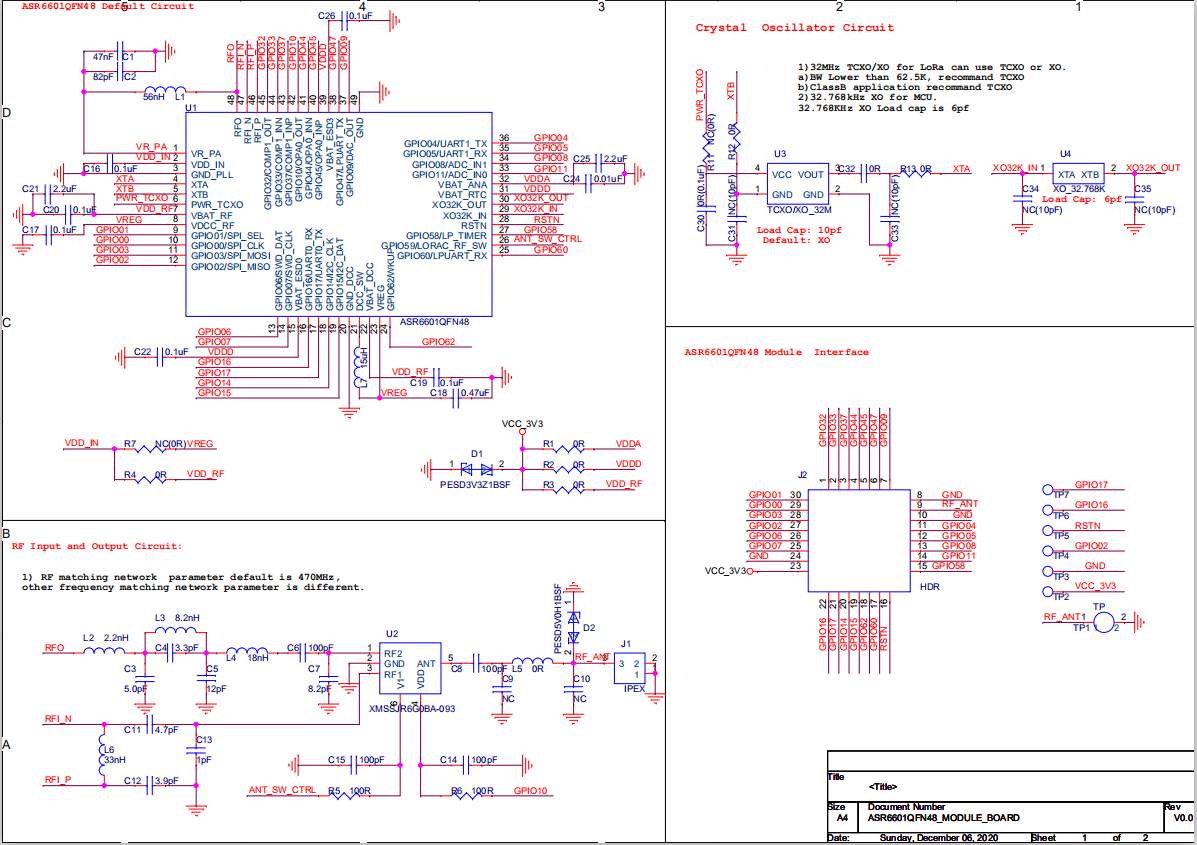
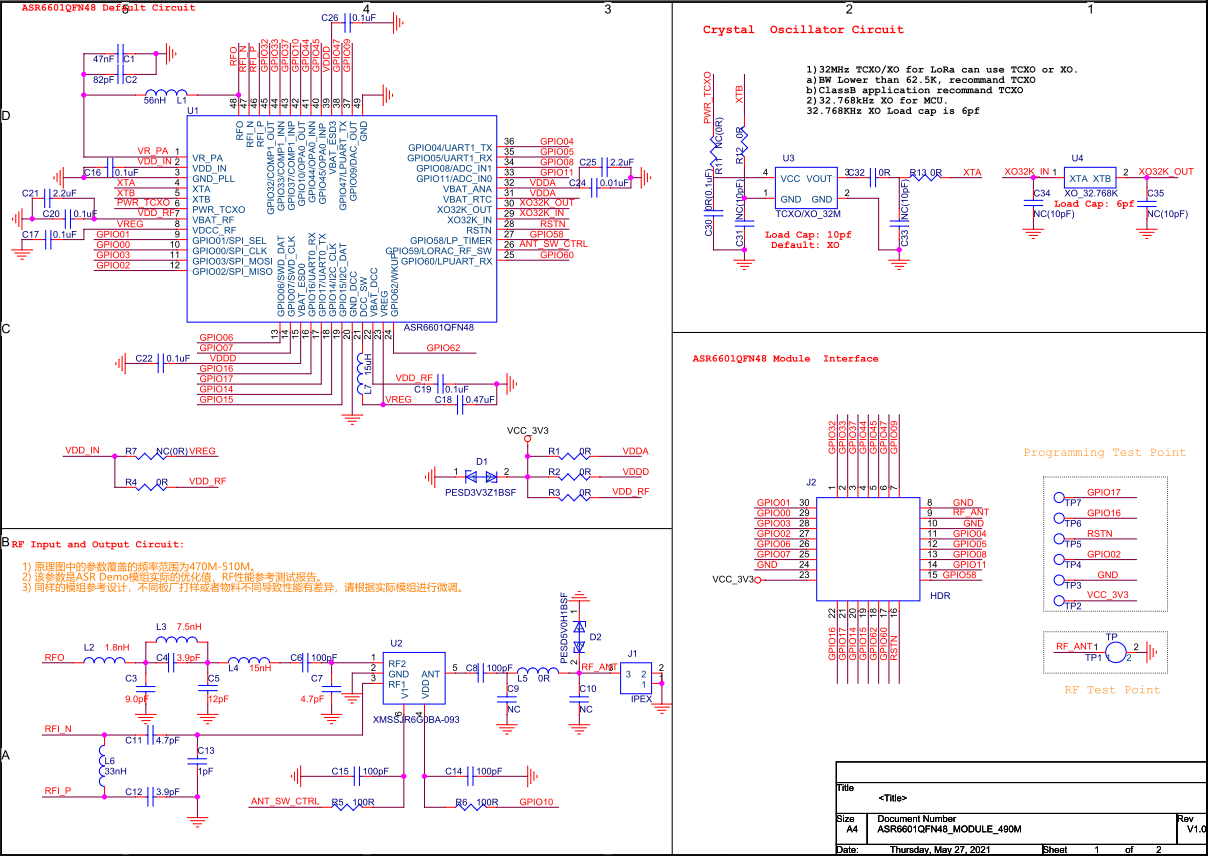
change some descriptions and figures.

diff --git a/source/hardware_design.rst b/source/hardware_design.rst
@@ -53,17 +53,19 @@ Homepage: http://www.asrmicro.com/asrweb/
 +----------+-------------+---------------------------------------------------------------------------------------------------------------------------------------------------------------------------------------------------------------------------------------+
 | 2020.11  | V1.0.1      | Updated some pictures.                                                                                                                                                                                                                |
 +----------+-------------+---------------------------------------------------------------------------------------------------------------------------------------------------------------------------------------------------------------------------------------+
-| 2020.12  | V1.0.2      | Updated the descriptions about ASR6601 module interfaces in Figure 2-2 and Figure 2-3. Updated the I2C_CLK and I2C_DAT marks in the ASR6601 module reference design in Figure 2-2 and Figure 2-3. Updated Section 2.5 Pin Assignment. |
+| 2020.12  | V1.0.2      | Updated the descriptions about ASR6601 module interfaces in the figures in Section 2.3.  Corrected the I2C_CLK and I2C_DAT marks in the figures in Section 2.3.  Updated Section 2.5 Pin Assignment.                                  |
 +----------+-------------+---------------------------------------------------------------------------------------------------------------------------------------------------------------------------------------------------------------------------------------+
-| 2021.05  | V1.1.0      | Updated the recommended crystal oscillators in Table 3-1.                                                                                                                                                                             |
+| 2021.05  | V1.1.0      | Updated Chapter 1: Overview.   Updated the recommended crystal oscillators in Table 3-1.                                                                                                                                              |
++----------+-------------+---------------------------------------------------------------------------------------------------------------------------------------------------------------------------------------------------------------------------------------+
+| 2021.07  | V1.2.0      | Added Section 2.4.2 reset circuit and relevant notice.  Updated the descriptions about CPU.  Updated the figures in Section 2.3.1, 2.3.2 and 2.4.4.                                                                                   |
 +----------+-------------+---------------------------------------------------------------------------------------------------------------------------------------------------------------------------------------------------------------------------------------+
 
-1. Test Overview
+1. Overview
 ----------------
 
 ASR6601 is a general Sub-GHz SoC chip, with integrated Sub-1G RF transceiver and 32-bit RISC MCU. This transceiver is compatible with LoRaWAN® networks with the support for LoRa modulation for LPWAN use cases and (G)FSK modulation for legacy use cases. The MCU uses ARM STAR, with 48 MHz operation frequency, supports 3 x I2C, 1 x I2S, 4 x UART, 1 x LPUART, 1 x SWD, 3 x SPI, 1 x 12-bit SAR ADC, 1 x 12-bit DAC, etc.
 
-Continuous frequency coverage from 150 MHz to 960 MHz allows the support of all major sub-GHz ISM bands around the world. ASR6601 is capable of delivering up to +22 dBm with high-efficiency PA. High sensitivity to -148 dBm is achieved with just 4.6 mA active receive current consumption. The ultra-low deep sleep current of less than 1.6uA greatly extends the battery life. ASR6601 uses QFN48 (6x6mm) and QFN68 (8x8mm) packages. AS such, ASR6601 is suitable for ultra-distance communication, ultra-low power consumption and cost-effective LPWAN applications.
+Continuous frequency coverage from 150 MHz to 960 MHz allows the support of all major sub-GHz ISM bands around the world. The maximum transmit power of the chip is up to +22 dBm with the high-efficiency PA integrated. High sensitivity to -148 dBm is achieved with just 4.6 mA active receive current consumption. The ultra-low deep sleep current of less than 1.6 uA greatly extends the battery life. ASR6601 uses QFN48 (6x6mm) and QFN68 (8x8mm) packages. AS such, ASR6601 is suitable for ultra-distance communication, ultra-low power consumption and cost-effective LPWAN applications.
 
 This document is a guide for ASR6601 hardware design, including the schematic design, layout notes, and suggestions to critical materials selection.
 
@@ -110,7 +112,7 @@ Pay close attention to the following aspects, regarding ASR6601 module reference
 
 \1. The default of the matching network is 470 MHz in the reference circuit. If you need any other matching network, please refer to *ASR6601_Matching_V1.0*.
 
-\2. The pullup inductor L7 (15 uH) of DC-DC must be power inductor (Package size: 2016). Refer to the Chapter 3 in this article to get the details of the power inductor. We suggest you choose 0402 package for the inductor L1 (56 nH) of VR_PA, since its rated current is larger, which helps improve the transmit power of the TX.
+\2. The pullup inductor L7 (15 uH) of DC-DC must be power inductor (Package size: 2016). Refer to *Chapter 3: Material Selection* to get the details of the power inductor. We suggest you choose 0402 package for the inductor L1 (56 nH) of VR_PA, since its rated current is larger, which helps improve the transmit power of the TX.
 
 \3. The R1，R2，R3，R4 and R7 in the schematics are mainly for testing. You can change or remove them accordingly.
 
@@ -118,7 +120,7 @@ Pay close attention to the following aspects, regarding ASR6601 module reference
 
 \5. In order to enhance ESD protection, we suggest reserving D1 and D2. D2 has some influence on RF performance, D2(TVS) with small capacitance is prefered.
 
-\6. If VDD_IN is connected to VREG, the maximum transmit power is 14dBm. If VDD_IN is connected to VDD_RF, the maximum transmit power is up to 22dBm.
+\6. If VDD_IN is connected to VREG, the maximum transmit power is 14 dBm. If VDD_IN is connected to VDD_RF, the maximum transmit power is up to 22 dBm.
 
 \7. Users can contact ASR for the DSN file of ASR6601 module schematics.
 
@@ -146,7 +148,30 @@ ASR6601 DC-DC Power Supply Scheme
 
    </center>
 
-2.4.2 Crystal Oscillator
+
+2.4.2 Reset Circuit
+^^^^^^^^^^^^^^^^^^^^^^^^
+
+The power-on reset circuit and power-on sequence are integrated into ASR6601 SoC chip, and the voltage can be normally loaded on VBAT directly.
+
+.. raw:: html
+
+   <center>
+
+|image5|
+
+ASR6601 Power-on Reset Circuit and Power-on Sequence
+
+.. raw:: html
+
+   </center>
+
+**Notice:**
+ As shown in Figure 2-5, the VBAT power supply must rise to above 0.7 Vcc within 10ms before the internal Power RST circuit can be reset normally. There is a low-voltage detection module inside the chip, when VBAT is lower than 0.3 Vcc, the inside of the chip will always be in the reset state. The chip has been optimized internally. It is recommended to use 4.7K external pull-up resistors and 330 pf capacitors for the internal Power RST circuit. The reset time should be delayed as short as possible. If a large capacitor is connected externally, VBAT rises slowly, and the system may have unnecessary risks.
+
+
+
+2.4.3 Crystal Oscillator
 ^^^^^^^^^^^^^^^^^^^^^^^^
 
 ASR6601 Demo module uses two crystal oscillators:
@@ -157,7 +182,7 @@ ASR6601 Demo module uses two crystal oscillators:
 
  b. If the bandwidth is lower than 62.5 KHz, TCXO is strongly recommended.
 
- c. As ASR6601 is integrated load capacitance matrix, please use the default value.
+ c. ASR6601 integrates load capacitance matrix, please use the default value.
 
  d. Increase external load capacitance when the frequency offset is positive, otherwise, we suggest to change 32M XO.
 
@@ -173,7 +198,7 @@ ASR6601 Demo module uses two crystal oscillators:
 
    <center>
 
-|image5|
+|image6|
 
 .. raw:: html
 
@@ -181,10 +206,10 @@ ASR6601 Demo module uses two crystal oscillators:
 
 
 
-2.4.3 RF Matching
+2.4.4 RF Matching
 ^^^^^^^^^^^^^^^^^
 
-|image6|
+|image7|
 
 Pay close attention to the following aspects, regarding to ASR6601 chip RF circuit:
 
@@ -192,13 +217,13 @@ Pay close attention to the following aspects, regarding to ASR6601 chip RF circu
 
 \2. The default of the matching network is 470 MHz in the reference circuit. If you need any other matching network, please refer to the article of *ASR6601_Matching_V1.0*.
 
-\3. XMSSJR6G0BA uses single-end controlled mode. Pin6 is the DIO2 received by CTRL signal of TRSW. DIO’s controlling logics are as following. Please note that different RFSWs have different controlling logics and pins, so please refer to the responding datasheet of RFSW.
+\3. XMSSJR6G0BA uses single-end controlled mode. Pin6 is the DIO2 received by CTRL signal of TRSW. DIO’s controlling logics are as following. Please note that different RFSWs have different controlling logics and pins, which are defined in the corresponding datasheets of RFSW.
 
  a. When DIO2 is high, RF2àTX
 
  b. When DIO2 is low, RF1àRX
 
-\4. GPIO10 connects the VDD pin of TRSW. When LoRa chip works normally, GPIO is high. When LoRa chip is in sleep mode, pull down GPIO to turn off the TRSW to prevent TRSW electric leakage (XMSSJR6G0BA may have 5 uA electric leakage). If the power consumption is not sensitive, GIPO can be used in other ways by connecting VDD_RF to VDD of RFSW.
+\4. GPIO10 connects the VDD pin of TRSW. When ASR6601 works normally, GPIO is high. When ASR6601 is in sleep mode, GPIO is pulled down to turn off the TRSW to prevent TRSW electric leakage (XMSSJR6G0BA may have 5 uA electric leakage). If the power consumption is not sensitive, GIPO can be used in other ways by connecting VDD_RF to VDD of RFSW.
 
 \5. ASR suggest using XMSSJR6G0BA for RFSW. Users can use replaceable materials and adjust the parameters in RF matching network. For further details, please refer to *Chapter 3: Material Selection*.
 
@@ -211,7 +236,7 @@ Please refer to *ASR6601 Datasheet* for pin definitions.
 
    <center>
 
-|image7|
+|image8|
 
 Pin Assignment of ASR6601SE QFN68 (8x8x0.9mm)
 
@@ -223,7 +248,7 @@ Pin Assignment of ASR6601SE QFN68 (8x8x0.9mm)
 
    <center>
 
-|image8|
+|image9|
 
 Pin Assignment of ASR6601CB QFN48 (6x6x0.9mm)
 
@@ -239,23 +264,21 @@ Pin Assignment of ASR6601CB QFN48 (6x6x0.9mm)
 3.1 Crystal Oscillator
 ~~~~~~~~~~~~~~~~~~~~~~
 
-|image9|
+|image10|
 
-Please refer to *Critical Material Recommendations* for details about recommended suppliers.
 
 3.2 RF Switch
 ~~~~~~~~~~~~~
 
-|image10|
+|image11|
 
-Please refer to *Critical Material Recommendations* for details about recommended suppliers.
 
 3.3 Power Inductor
 ~~~~~~~~~~~~~~~~~~
 
 If using DC-DC supplies power to the regulator (REG PA), the power inductor is a necessity. Please refer to the requirements of the power inductor in the following table.
 
-|image11|
+|image12|
 
 Please refer to *Critical Material Recommendations* for details about recommended suppliers.
 
@@ -289,7 +312,7 @@ Pay attention to the following aspects, regarding to the PCB RF routing as shown
 
    <center>
 
-|image12|
+|image13|
 
 .. raw:: html
 
@@ -331,8 +354,9 @@ Pay attention to the following aspects, regarding to the PCB crystal routing:
 .. |image6| image:: img/6601_Hardware/图2-6.png
 .. |image7| image:: img/6601_Hardware/图2-7.png
 .. |image8| image:: img/6601_Hardware/图2-8.png
-.. |image9| image:: img/6601_Hardware/图3-1.png
-.. |image10| image:: img/6601_Hardware/图3-2.png
-.. |image11| image:: img/6601_Hardware/图3-3.png
-.. |image12| image:: img/6601_Hardware/图4-1.png
+.. |image9| image:: img/6601_Hardware/图2-9.png
+.. |image10| image:: img/6601_Hardware/图3-1.png
+.. |image11| image:: img/6601_Hardware/图3-2.png
+.. |image12| image:: img/6601_Hardware/图3-3.png
+.. |image13| image:: img/6601_Hardware/图4-1.png
 

diff --git a/source/datasheet.rst b/source/datasheet.rst
@@ -51,13 +51,15 @@ Homepage: http://www.asrmicro.com/asrweb/
 +=========+=========+==========================================================================================================+
 | 2020.09 | V1.0.0  | First Release.                                                                                           |
 +---------+---------+----------------------------------------------------------------------------------------------------------+
-| 2020.09 | V1.0.1  | Updated Figure 3-2.                                                                                      |
+| 2020.09 | V1.0.1  | Updated ASR6601CB QFN48 pin assignment.                                                                  |
 +---------+---------+----------------------------------------------------------------------------------------------------------+
 | 2020.10 | V1.0.2  | Added Section 3.3.                                                                                       |
 +---------+---------+----------------------------------------------------------------------------------------------------------+
 | 2020.12 | V1.1.0  | Updated the contents and section order of Chapter 2. Added Section 2.3, Section 3.1.3 and Section 3.2.3. |
 +---------+---------+----------------------------------------------------------------------------------------------------------+
 | 2021.02 | V1.2.0  | Updated Section 1.5. Added Chapter 2.                                                                    |
++---------+---------+----------------------------------------------------------------------------------------------------------+
+| 2021.07 | V1.3.0  | Updated the descriptions about CPU.                                                                      |
 +---------+---------+----------------------------------------------------------------------------------------------------------+
 
 1. Overview

diff --git a/source/OTA.rst b/source/OTA.rst
@@ -55,9 +55,11 @@ Homepage: http://www.asrmicro.com/asrweb/
 +==========+=============+====================================================================+
 | 2020.06  | V0.1.0      | First Release.                                                     |
 +----------+-------------+--------------------------------------------------------------------+
-| 2020.10  | V0.2.0      | Updated Figure 1-1 and Figure 1-2.                                 |
+| 2020.10  | V0.2.0      | Updated the figures in Section 1.1.                                |
 +----------+-------------+--------------------------------------------------------------------+
 | 2021.05  | V1.1.0      | Deleted Chapter 1, and move the contents to “About This Document”. |
++----------+-------------+--------------------------------------------------------------------+
+| 2021.06  | V1.2.0      | Added verified Android phone models in Section 1.1.                |
 +----------+-------------+--------------------------------------------------------------------+
 
 1. Preparation
@@ -67,13 +69,18 @@ Homepage: http://www.asrmicro.com/asrweb/
 ~~~~~~~~~~~~
 
 Hardware requirements are as follows:
+ -  2 ASR6601 development boards
+ -  2 antennas
+ -  2 USB cable
+ -  1 USB converter
+ -  1 Android cellphone,
+    and the Android phone models verified by ASR are as follows:    
+     -  HUAWEI Mate 20 Pro, Android 10, EMUI 11.0.0
+     -  HUAWEI nova, Android 10, EMUI 11.0.0
+     -  HUAWEI Maimang 6, Android 8, EMUI 8.0.0
+     -  Xiaomi MIX 2S, Android 9, MIUI 11.0.3
 
--  2 ASR6601 development boards
--  2 antennas
--  2 USB cable
--  1 USB converter
--  1 Android cellphone
--  1 PC
+ -  1 PC
 
 |image1|
 
